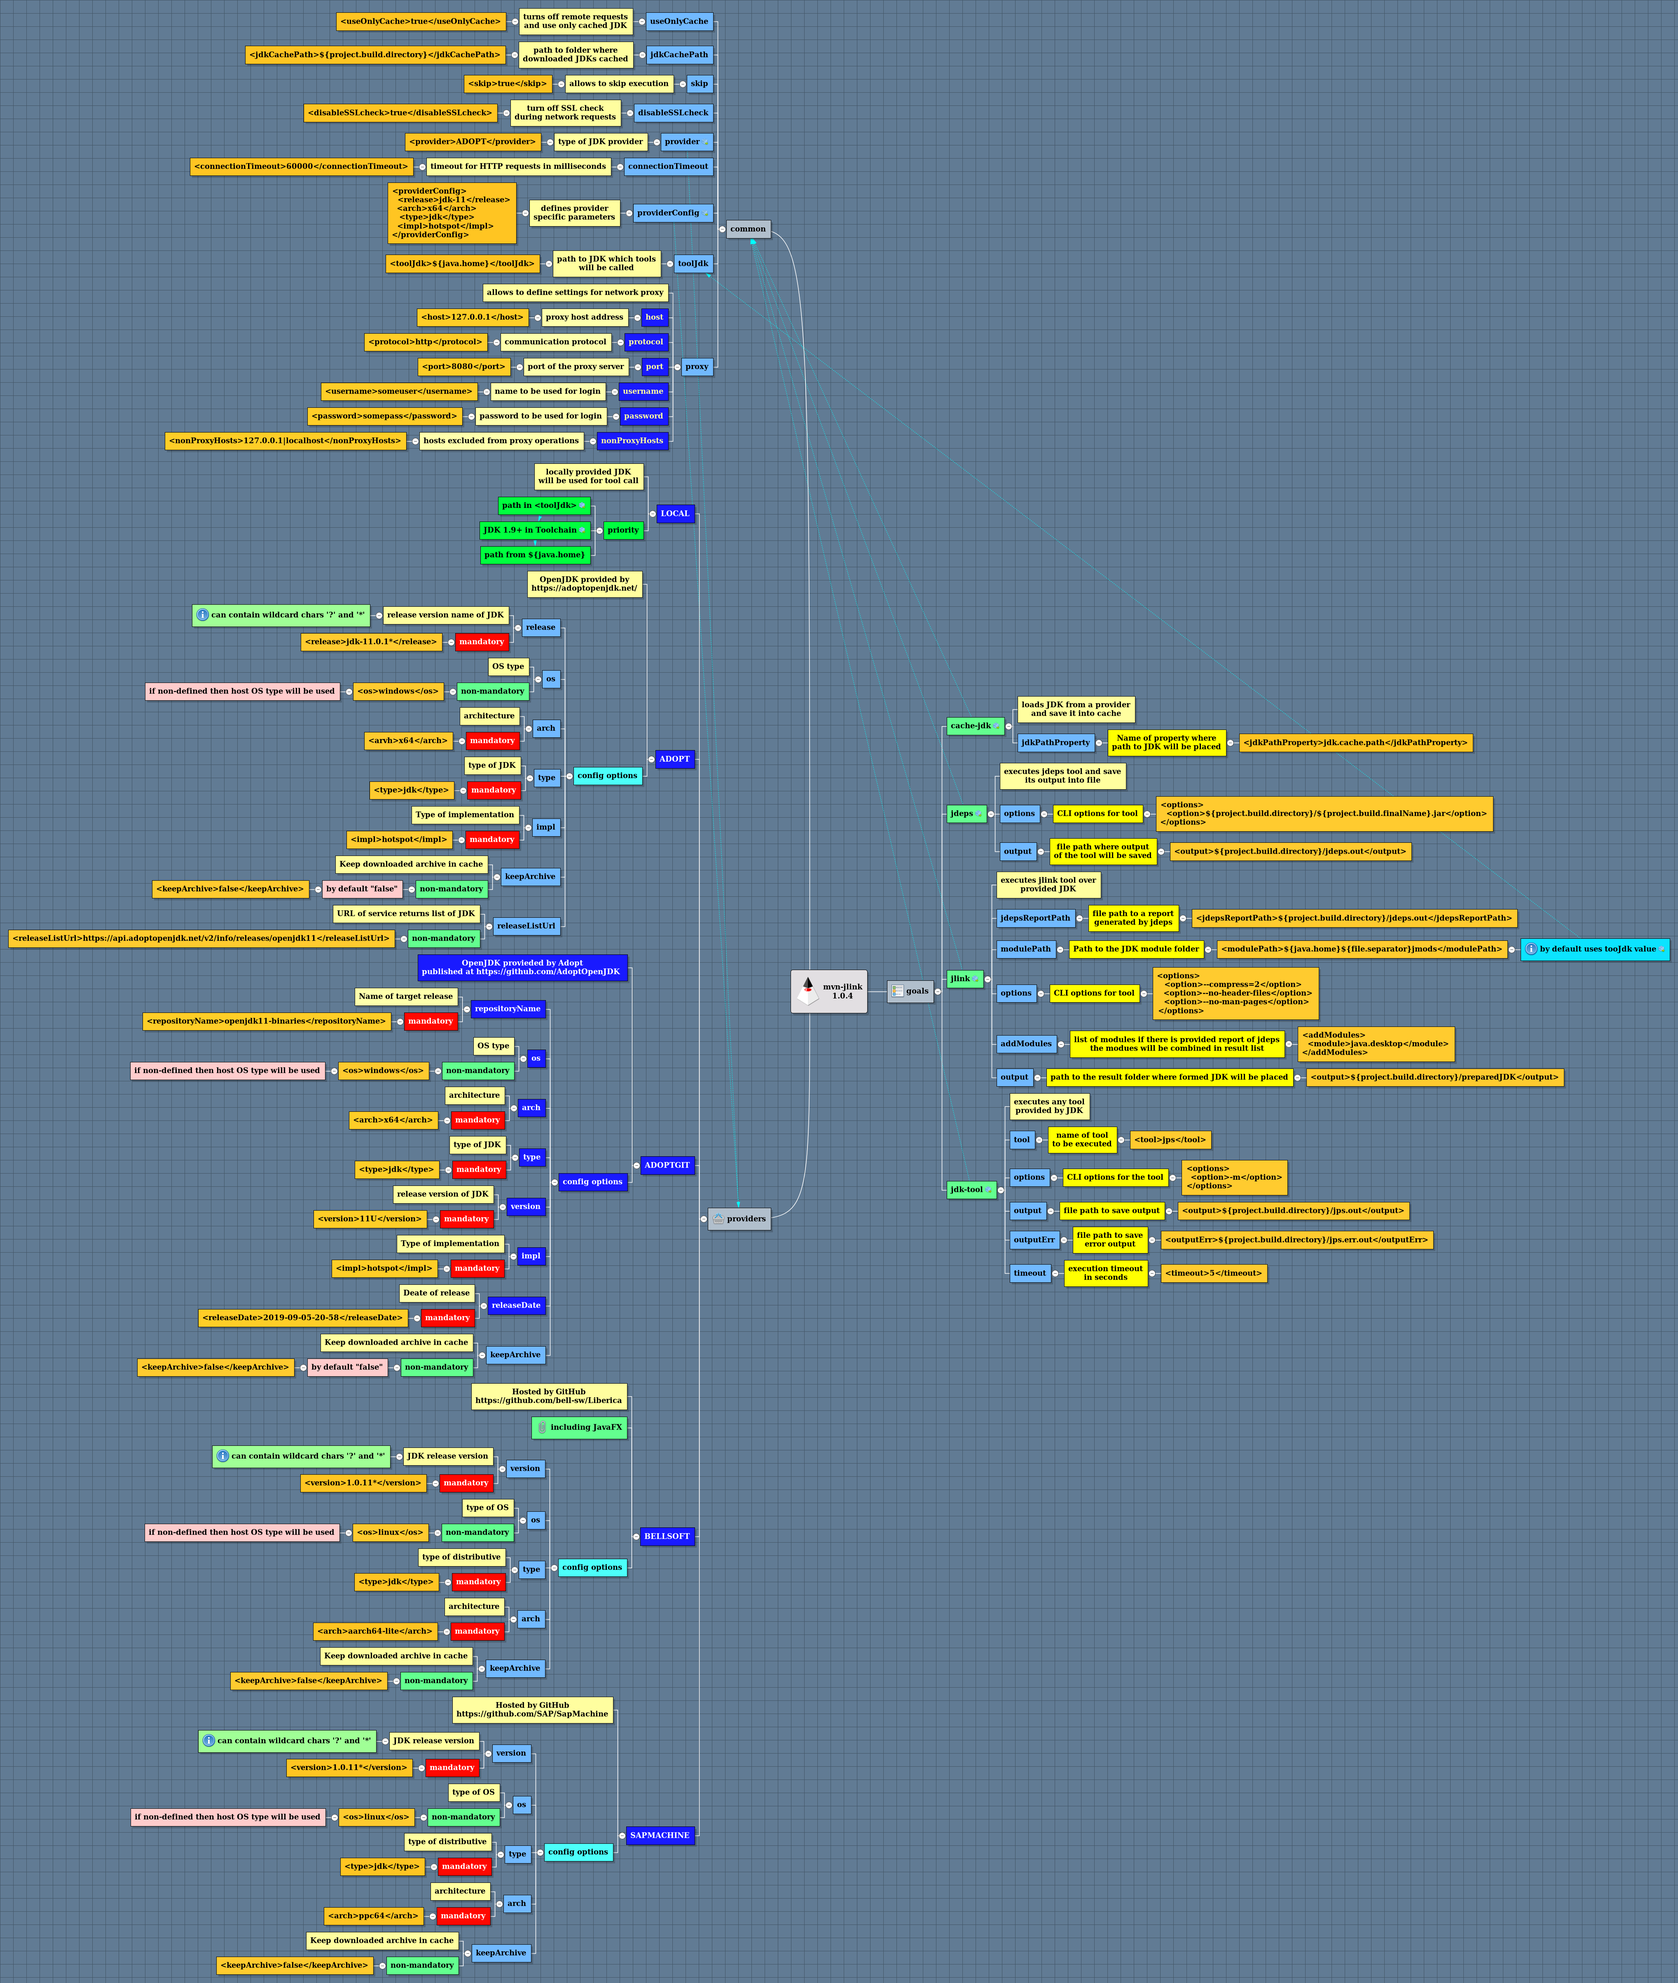
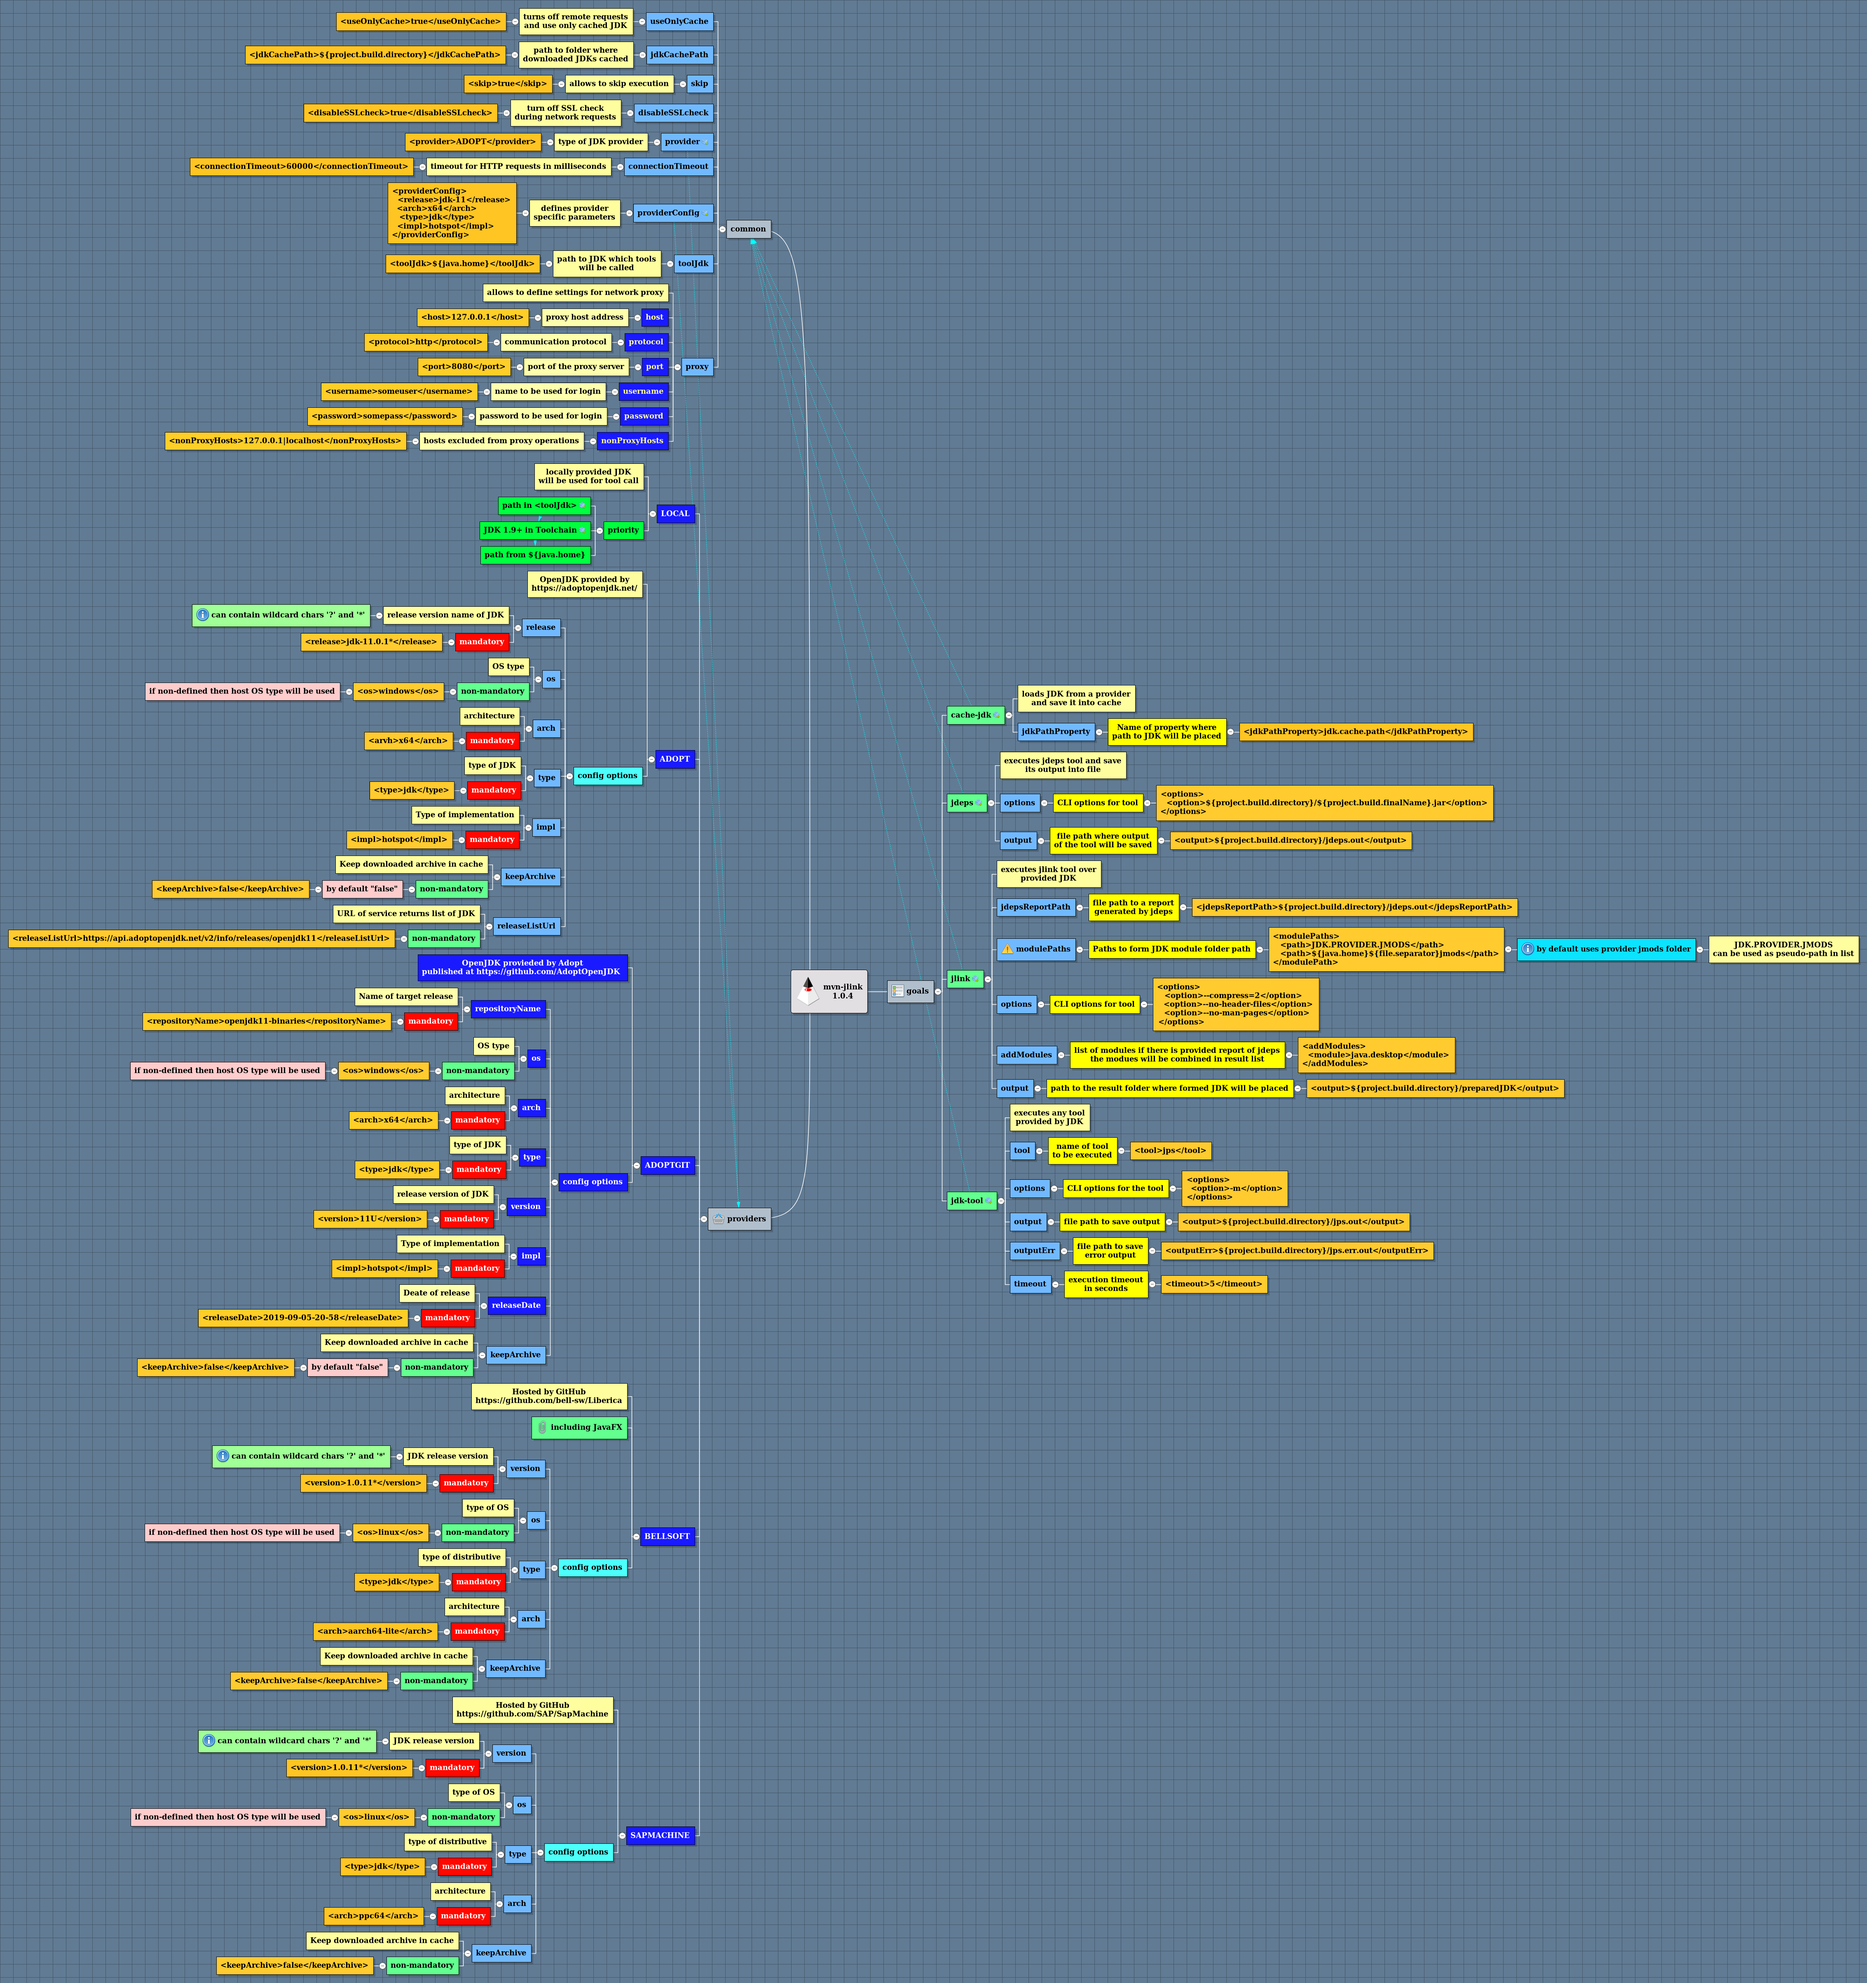
updated readme

diff --git a/README.md b/README.md
@@ -125,6 +125,9 @@ The example calls `jlink` from provided JDK and build JDK version based on repor
             <configuration>
                 <jdepsReportPath>${project.build.directory}${file.separator}jdeps.out</jdepsReportPath>
                 <output>${project.build.directory}${file.separator}preparedJDK</output>
+                <modulePaths>
+                    <path>${java.home}${file.separator}jmods</path>
+                </modulePaths>
                 <addModules>
                     <module>java.compiler</module>
                 </addModules>
